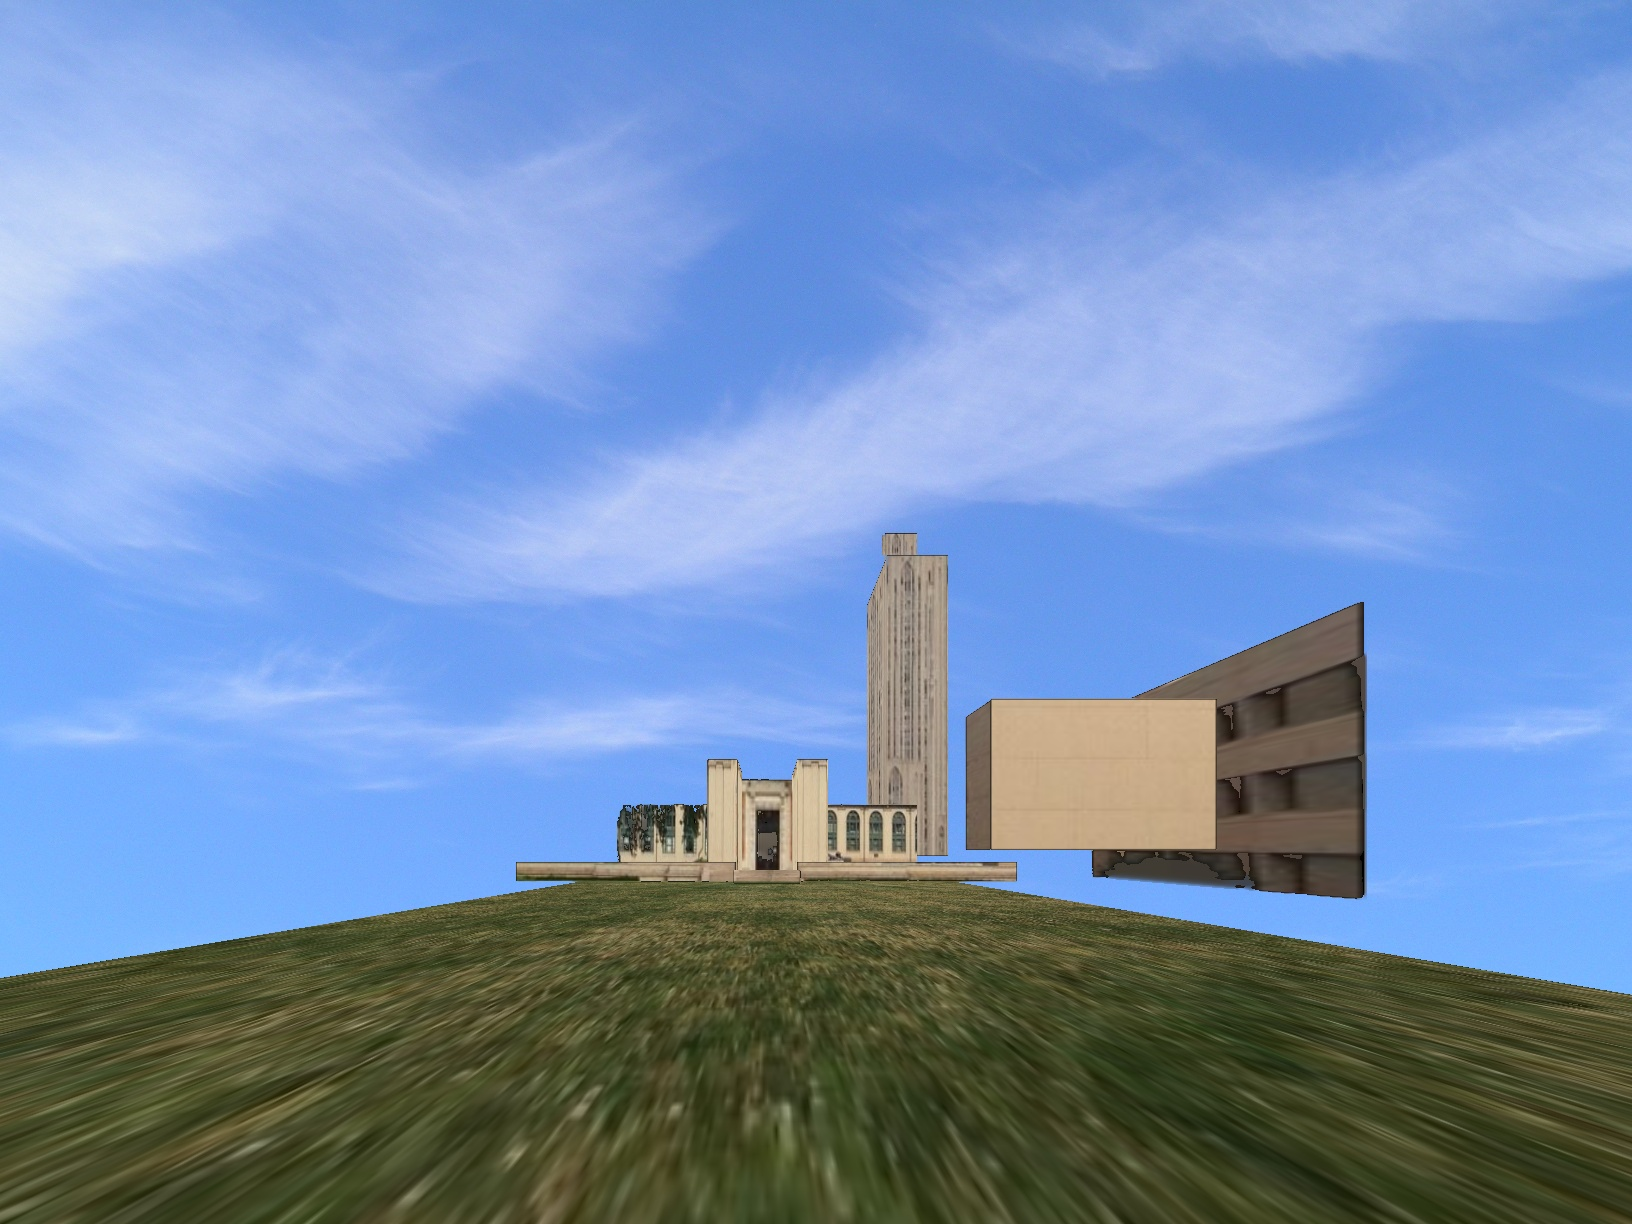
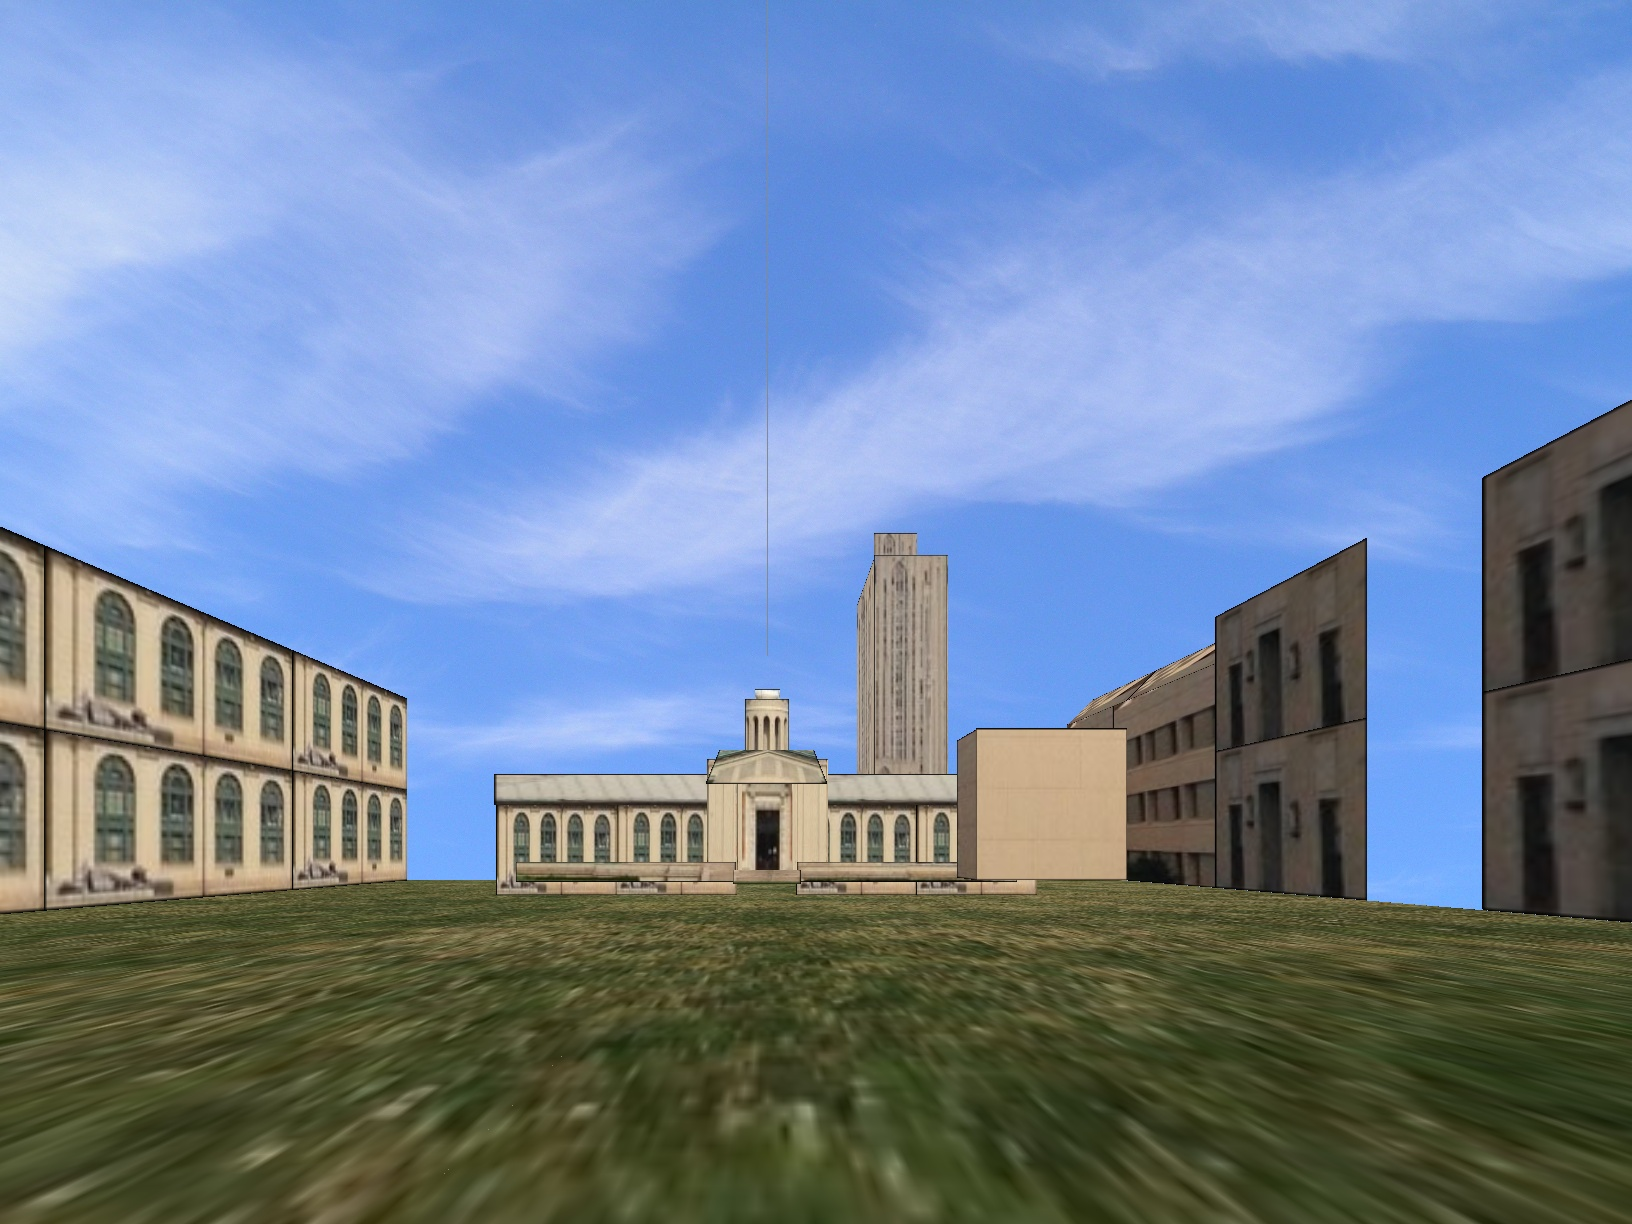
added more planes

Changed region(s): [[0.0, 0.3105, 1.0, 1.0]]

diff --git a/main.py b/main.py
@@ -33,8 +33,9 @@ def createVideoSequence():
     r_vector = (0, 0, 0)
     t_vector = (0, 5, 0)
     resultImg = processImage(r_vector, t_vector, frame_count)
-    #fillGapsAbsolute(resultImg, picWidth, picHeight)
     #generalBlender(resultImg, picWidth, picHeight)
+    #fillGapsAbsolute(resultImg, picWidth, picHeight)
+    #deNoise(resultImg)
     cv2.imwrite(file_name + str(frame_count) + file_extension, resultImg)
 
     '''
@@ -189,13 +190,6 @@ def overlayImage(resultImage, homoImage):
     resultImage = newResultImage + newHomoImage
     return resultImage
 
-# Extract and returns an area from picture with different parameters
-def getExtractedAreaFromCorners(pic, leftX, rightX, topY, bottomY):
-    extractedArea = pic[:, leftX:rightX]
-    extractedArea = extractedArea[topY:bottomY, :]
-    print extractedArea
-    return extractedArea
-
 # Extract and returns an area from picture
 def getExtractedArea(pic, areaRadius, centerX, centerY):
     extractedArea = pic[:, centerX-areaRadius:centerX+areaRadius]
@@ -285,5 +279,7 @@ def generalBlender(picture, width, height):
                 #Fill in the hole
                 picture[y, x] = (avgBlue, avgGreen, avgRed)
 
+def deNoise(image):
+    cv2.fastNlMeansDenoisingColored(image, None, 10, 10, 7, 21) 
     
 main()
